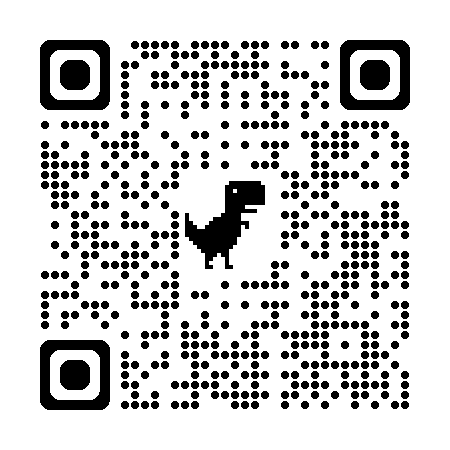
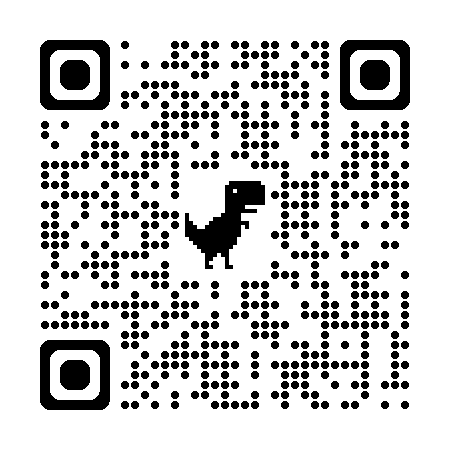
update qrcode and web URL

diff --git a/README.md b/README.md
@@ -1,6 +1,6 @@
 # 🌟 HappyASPA
 
-> **Live Demo:** [http://47.242.86.75](http://47.242.86.75)  
+> **Live Demo:** [https://dii.csuu.asia/](https://dii.csuu.asia/)  
 > Scan the QR code below to access the application on your mobile device!
 > 
 > <img src="./static/qrcode.png" width="150" height="150" alt="Website QR Code">
